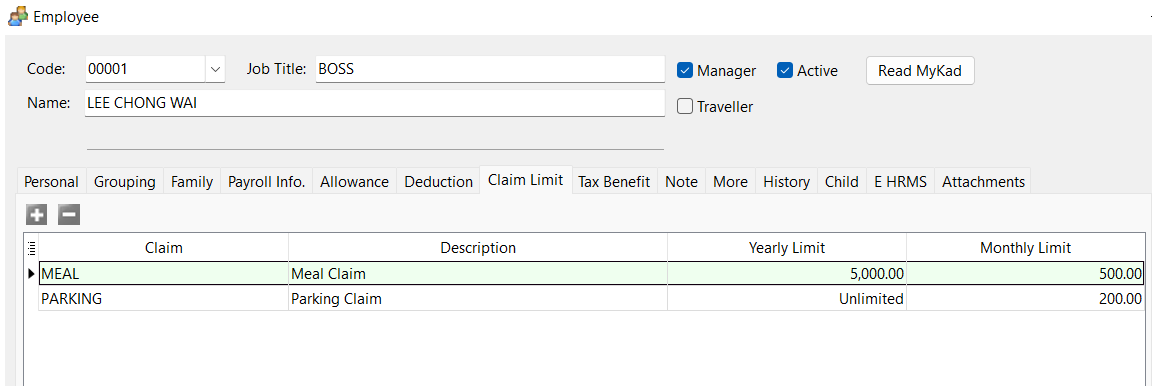
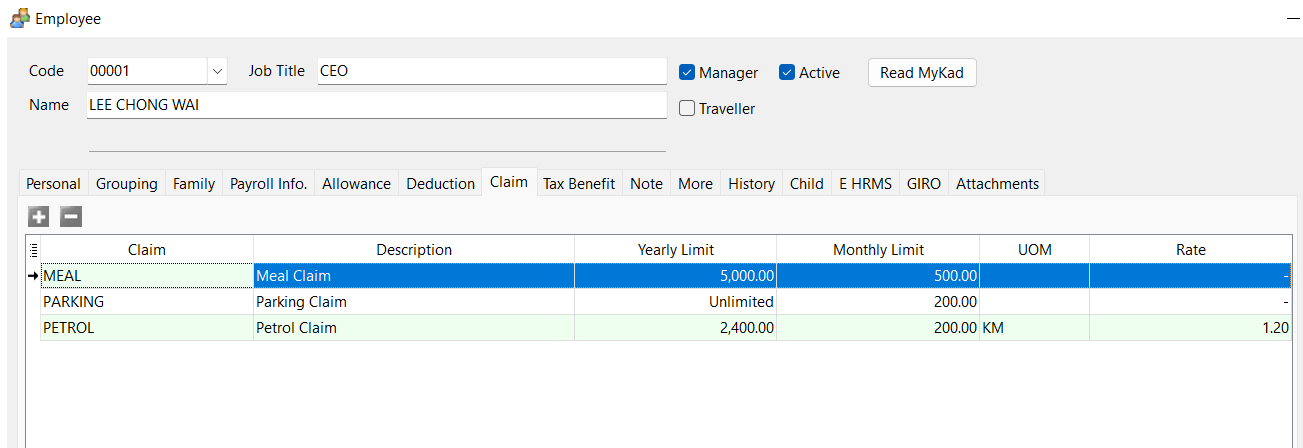
feat: add mileage claim documentation

Changed region(s): [[0.0, 0.3731, 1.0, 0.8083], [0.0, 0.1244, 0.8438, 0.3109], [0.0, 0.0, 0.0938, 0.0622]]

diff --git a/docs/integration/hrms/e-claim/app-usage.md b/docs/integration/hrms/e-claim/app-usage.md
@@ -22,16 +22,22 @@ Prorated year claim limit will be applied to user whose Join Year = Current Year
 
 1. Draft the claim:
 
-   | Claim               | Description                                                   |
-   | ------------------- | ------------------------------------------------------------- |
-   | **Default Claim**   | Select expense type, claim date, amount and description       |
-   | **Receipt Scan**    | Select attachment of a receipt                                |
-   | **E-Invoice Claim** | Select attachment that includes a **VALID** E-Invoice QR code |
+   | Claim               | Description                                                       |
+   | ------------------- | ----------------------------------------------------------------- |
+   | **Default Claim**   | Select expense type, claim date, amount and description           |
+   | **Mileage**         | Select expense type, claim date, address/distance and description |
+   | **Receipt Scan**    | Select attachment of a receipt                                    |
+   | **E-Invoice Claim** | Select attachment that includes a **VALID** E-Invoice QR code     |
 
    - User can view the MTD limit, YTD limit and claim balance for each selected expenses type
+   - For Mileage Claim,
+      - Only expenses type where its UOM is "KM" can be used to apply Mileage Claim (refer [here](payroll-setup#maintain-claim))
+      - **_'Calculate from Address' switch_**: User can input origin and destination for Mileage Claim and system will calculate the approximate distance between the 2 address (Caluclated distance are not allowed to edit)
+      - **_Amount_** are not allowed to edit as it will be calculate based on the distance and rate  
+      - A map screenshot will be attached if user input origin and destination
    - For Receipt Scan, 
-     - Rescan: Resubmit attachment for reanalyzing if the scan result is incorrect
-     - Refresh Status: Refresh scan status after attachment is uploaded if scanning is still in progress
+     - **_'Rescan' button_**: Resubmit attachment for reanalyzing if the scan result is incorrect
+     - **_'Refresh Status' button_**: Refresh scan status after attachment is uploaded if scanning is still in progress
    - For E-Invoice Claim, post date, ref 1 and ref 2 will be filled in based on the E-Invoice and are not editable
    - User need to allow Camera and Photos (only for iOS device) permission in order to continue the service (refer [Android Permission](../permission.md#android-2) and [iOS Permission](../permission.md#ios-2))
 

diff --git a/docs/integration/hrms/e-claim/payroll-setup.md b/docs/integration/hrms/e-claim/payroll-setup.md
@@ -8,6 +8,7 @@ description: An E Claim setup guide in SQL Payroll
 
 1. Navigate to Payroll > Maintenance > Maintain Claim…, select a Claim or Create New
 2. Set Yearly Limit and Monthly Limit
+3. Set UOM and Rate (for Mileage Claim)
 
     Option 1: Maintain Claim
 
